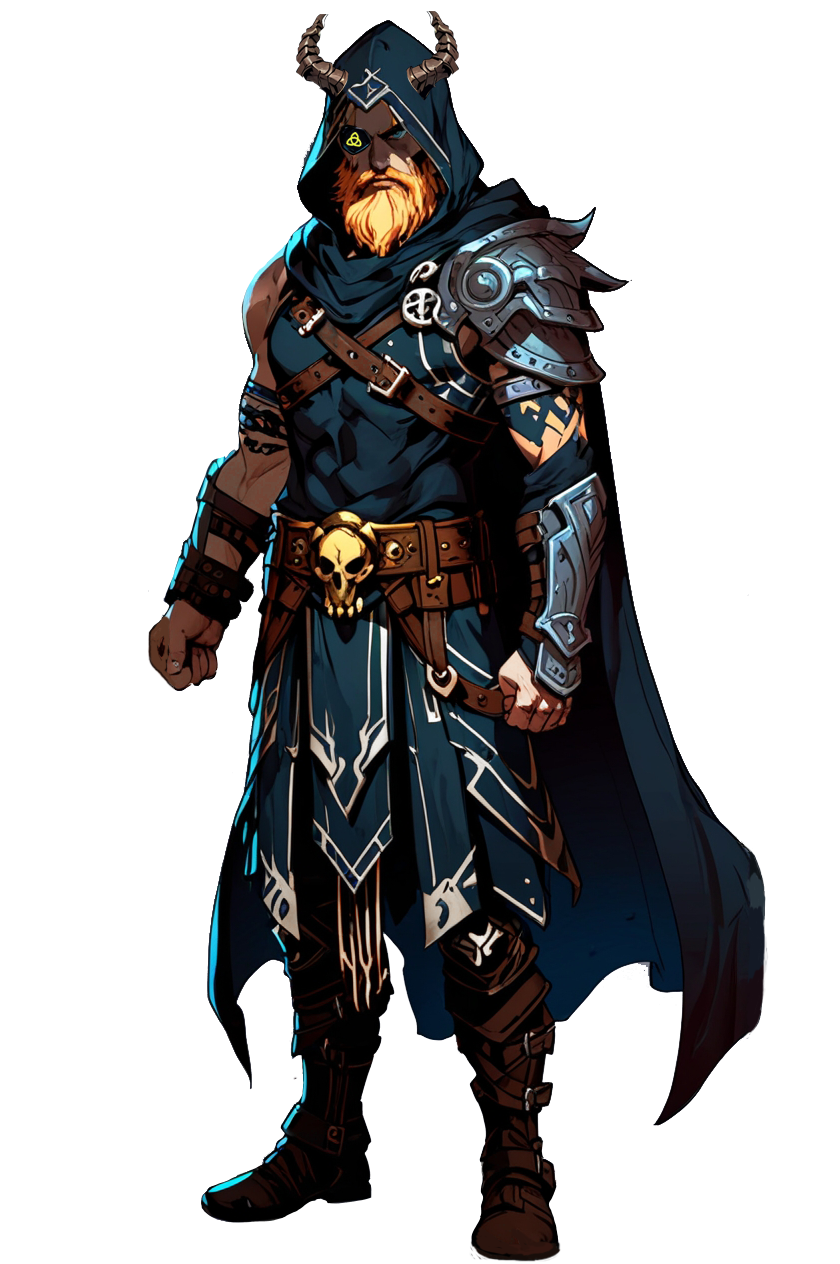
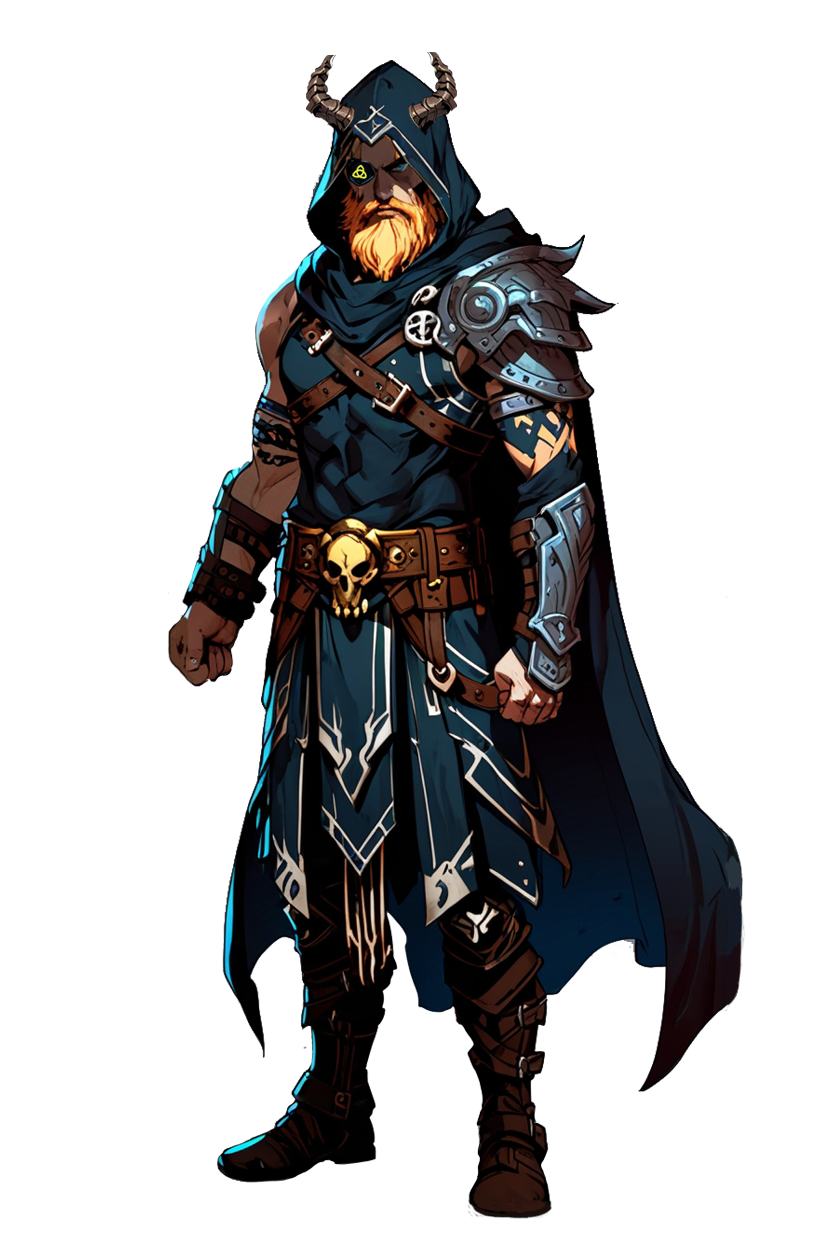
Update: Synergy
시너지 툴팁에 이미지 위치 조정

Changed region(s): [[0.1548, 0.0, 0.9286, 1.0]]

diff --git a/Assets/EvolveThisMatch/Script/Core/UI/PlayingCanvas/UISynergyItem.cs b/Assets/EvolveThisMatch/Script/Core/UI/PlayingCanvas/UISynergyItem.cs
@@ -1,6 +1,7 @@
 using FrameWork.Tooltip;
 using FrameWork.UIBinding;
 using System.Collections.Generic;
+using System.Linq;
 using TMPro;
 using UnityEngine;
 using UnityEngine.UI;
@@ -45,13 +46,24 @@ namespace EvolveThisMatch.Core
             _name.text = template.displayName;
             _icon.sprite = template.icon;
 
+            var activeTemplates = new HashSet<AgentTemplate>(activeUnits.Select(data => data.agentTemplate));
+            int activeCount = allUnits.Count(unit => activeTemplates.Contains(unit));
+
+            foreach (var data in template.synergyDatas)
+            {
+                if (data.count == activeCount)
+                {
+                    
+                }
+            }
+
             _trigger.SetAction(() =>
             {
                 if (_trigger.GetTooltipStyle() is SynergyTooltipStyle synergyTooltip)
                 {
                     synergyTooltip.CustomData(template, allUnits, activeUnits);
                 }
-            });            
+            });
 
             base.Show(true);
         }

diff --git a/Assets/EvolveThisMatch/Script/Core/Template/Unit/Agent/AgentTemplate.cs b/Assets/EvolveThisMatch/Script/Core/Template/Unit/Agent/AgentTemplate.cs
@@ -57,6 +57,7 @@ namespace EvolveThisMatch.Core
         public string displayName => _displayName;
 
         public Sprite sprite => (skins.Count == 0) ? null : skins[0]?.faceSprite;
+        public Vector2 faceCenterPosition => (skins.Count == 0) ? Vector2.zero : skins[0].faceCenterPosition;
         public GameObject prefab => skins[_selectedSkinId]?.battleTemplate.prefab;
 
         public EMoveType MoveType => _moveType;
@@ -532,7 +533,7 @@ namespace EvolveThisMatch.Editor
                     var element = _target.skins[index];
                     if (element == null) return 30;
 
-                    return 190;
+                    return 210;
                 }
             };
         }

diff --git a/Assets/EvolveThisMatch/Script/Core/UI/PlayingCanvas/UISynergyUnit.cs b/Assets/EvolveThisMatch/Script/Core/UI/PlayingCanvas/UISynergyUnit.cs
@@ -29,9 +29,10 @@ namespace EvolveThisMatch.Core
             _dim = GetImage((int)Images.Dim);
         }
 
-        internal void Show(Sprite fullBody, bool isActive)
+        internal void Show(AgentTemplate template, bool isActive)
         {
-            _fullBody.sprite = fullBody;
+            _fullBody.sprite = template.sprite;
+            _fullBody.rectTransform.anchoredPosition = template.faceCenterPosition;
             _dim.enabled = !isActive;
 
             base.Show(true);

diff --git a/Assets/EvolveThisMatch/Script/Core/UI/TooltipStyle/SynergyTooltipStyle.cs b/Assets/EvolveThisMatch/Script/Core/UI/TooltipStyle/SynergyTooltipStyle.cs
@@ -94,7 +94,7 @@ namespace EvolveThisMatch.Core
                 {
                     var agentTemplate = allUnits[i];
                     bool isActive = activeUnits.Any(data => data.agentTemplate == agentTemplate);
-                    _units[i].Show(agentTemplate.sprite, isActive);
+                    _units[i].Show(agentTemplate, isActive);
                 }
                 else
                 {
